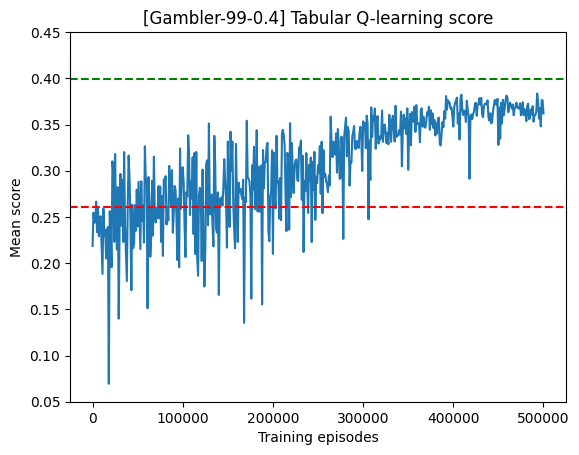
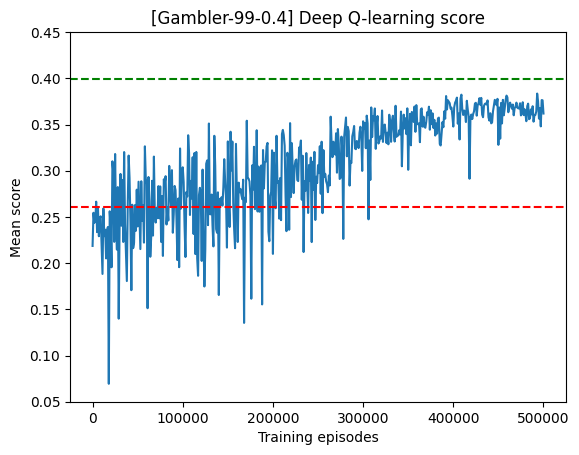
add deep q charts

Changed region(s): [[0.2487, 0.0, 0.8705, 0.0615]]

diff --git a/plot.py b/plot.py
@@ -1,7 +1,12 @@
 import json
 import matplotlib.pyplot as plt
+import numpy as np
 import torch
+import torch.nn as nn
 from typing import Any
+
+from env.environment import GamblerGame
+from q_learning.deep_q import ValueNetwork
 
 def load_data(data_path: str) -> Any:
     """Loads training data from a JSON file."""
@@ -38,13 +43,44 @@ def get_q_table_policy(q_table: list[list[int]], target_wealth: int) -> tuple[li
         actions.append(action + 1)
     return (states, actions)
 
-def plot_training_run(scores: dict, params: dict, save_path: str):
+def get_q_network_values(model: nn.Module, target_wealth: int) -> tuple[list[int], list[int]]:
+    """Queries a Q-value network for the predicted value of each state."""
+    states = list(range(1, target_wealth))
+    values = []
+    env = GamblerGame(target_wealth, 0.5, 0)
+
+    for wealth in states:
+        with torch.no_grad():
+            state = env.create_state(wealth)
+            q_values = model.forward(state.get_observation())
+            q_values[~state.get_action_mask()] = -np.inf
+            values.append(float(torch.max(q_values).item()))
+
+    return (states, values)
+
+def get_q_network_policy(model: nn.Module, target_wealth: int) -> tuple[list[int], list[int]]:
+    """Queries a Q-value network for the predicted bet amount at each state."""
+    states = list(range(1, target_wealth))
+    actions = []
+    env = GamblerGame(target_wealth, 0.5, 0)
+
+    for wealth in states:
+        with torch.no_grad():
+            state = env.create_state(wealth)
+            q_values = model.forward(state.get_observation())
+            q_values[~state.get_action_mask()] = -np.inf
+            action = int(torch.argmax(q_values).item())
+            actions.append(action + 1)
+
+    return (states, actions)
+
+def plot_training_run(data: dict, params: dict, save_path: str):
     """Plots a training curve for a training run."""
     x_values = []
     y_values = []
-    for score in scores:
+    for score in data["scores"]:
         x_values.append(int(score))
-        y_values.append(float(scores[score]))
+        y_values.append(float(data["scores"][score]))
 
     figure, axes = plt.subplots()
     axes.plot(x_values, y_values)
@@ -82,15 +118,16 @@ def plot_policy(states: list[int], actions: list[int], params: dict, save_path: 
 
     figure.savefig(save_path, bbox_inches="tight")
 
-for run in (99, 100):
-    data = load_data(f"data/tabular_q_data_{run}.json")
-    q_table = load_data(f"data/tabular_q_model_{run}.json")
+def plot_tabular_q(key: int):
+    """Generates charts for a tabular Q-learning run."""
+    data = load_data(f"data/tabular_q_data_{key}.json")
+    q_table = load_data(f"data/tabular_q_model_{key}.json")
     env_key = get_env_key(data)
     values = get_q_table_values(q_table, data["target_wealth"])
     policy = get_q_table_policy(q_table, data["target_wealth"])
 
     plot_training_run(
-        data["scores"],
+        data,
         {
             "env_key": env_key,
             "title": "Tabular Q-learning score",
@@ -98,7 +135,7 @@ for run in (99, 100):
             "y_label": "Mean score",
             "y_limits": (0.05, 0.45),
         },
-        f"charts/tabular_q_training_{run}.png",
+        f"charts/tabular_q_training_{key}.png",
     )
     plot_values(
         values[0],
@@ -110,7 +147,7 @@ for run in (99, 100):
             "y_label": "Value",
             "y_limits": (-0.05, 1),
         },
-        f"charts/tabular_q_values_{run}.png",
+        f"charts/tabular_q_values_{key}.png",
     )
     plot_policy(
         policy[0],
@@ -122,29 +159,58 @@ for run in (99, 100):
             "y_label": "Bet amount",
             "y_limits": (0, 52),
         },
-        f"charts/tabular_q_policy_{run}.png",
+        f"charts/tabular_q_policy_{key}.png",
     )
 
-'''
-plot_run(
-    "data/deep_q_data_99.json",
-    {
-        "title": "Tabular Q-learning score",
-        "x_label": "Training episodes",
-        "y_label": "Mean score",
-        "y_limits": (0.05, 0.45),
-    },
-    "charts/deep_q_training_99.png",
-)
-plot_q_network_values(
-    "data/deep_q_data_99.json",
-    "data/deep_q_model_99.pt",
-    {
-        "title": "Tabular Q-learning score",
-        "x_label": "Training episodes",
-        "y_label": "Mean score",
-        "y_limits": (0.05, 0.45),
-    },
-    "charts/deep_q_values_99.png",
-)
-'''
+def plot_deep_q(key: int):
+    """Generates charts for a deep Q-learning run."""
+    data = load_data(f"data/deep_q_data_{key}.json")
+    model_state = torch.load(f"data/deep_q_model_{key}.pt", weights_only=True)
+    env_key = get_env_key(data)
+
+    target_wealth = data["target_wealth"]
+    model = ValueNetwork(target_wealth + 1, target_wealth - 1)
+    model.load_state_dict(model_state)
+    values = get_q_network_values(model, target_wealth)
+    policy = get_q_network_policy(model, target_wealth)
+
+    plot_training_run(
+        data,
+        {
+            "env_key": env_key,
+            "title": "Deep Q-learning score",
+            "x_label": "Training episodes",
+            "y_label": "Mean score",
+            "y_limits": (0.05, 0.45),
+        },
+        f"charts/deep_q_training_{key}.png",
+    )
+    plot_values(
+        values[0],
+        values[1],
+        {
+            "env_key": env_key,
+            "title": "Deep Q-learning state values",
+            "x_label": "Wealth",
+            "y_label": "Value",
+            "y_limits": (-0.05, 1),
+        },
+        f"charts/deep_q_values_{key}.png",
+    )
+    plot_policy(
+        policy[0],
+        policy[1],
+        {
+            "env_key": env_key,
+            "title": "Deep Q-learning bet amounts",
+            "x_label": "Wealth",
+            "y_label": "Bet amount",
+            "y_limits": (0, 52),
+        },
+        f"charts/deep_q_policy_{key}.png",
+    )
+
+# Generate charts
+for key in (99, 100):
+    plot_tabular_q(key)
+plot_deep_q(99)
